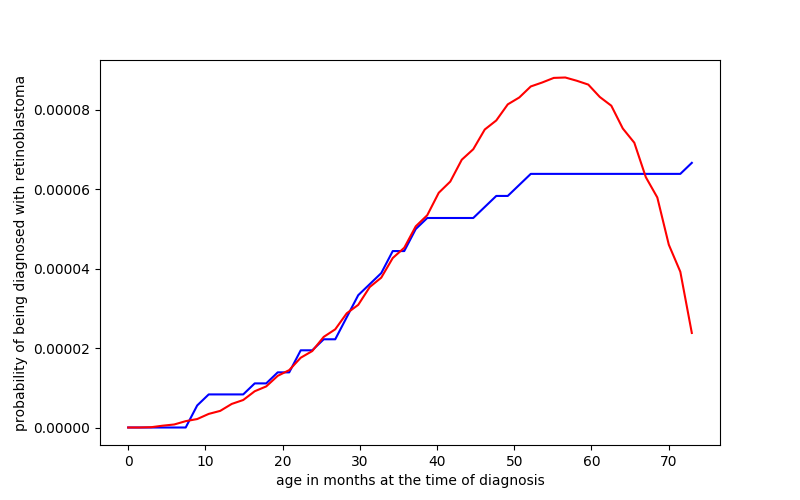
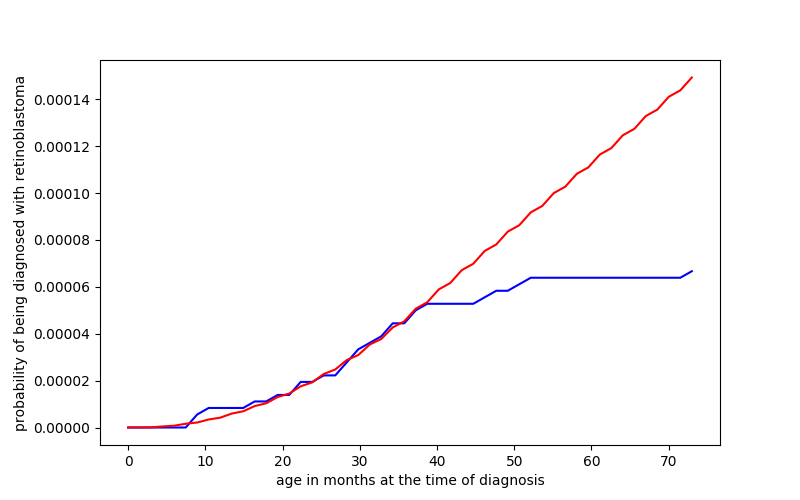
final asgn1 1

diff --git a/asgn1.py b/asgn1.py
@@ -18,13 +18,13 @@ def assignment_1_i():
 
 	p = op.minimize_scalar(loss, bounds=(1e-10, 1e-2), method='bounded').x
 	result = lambda t: model(t, p)
-	print('Best fit p = {}, relative error = {}%\n{}'.format(p, rel_err(ecdf, result, [0, 73]), div))
+	print('Best fit p = {:.2e}, relative error = {:.2}%\n{}'.format(p, rel_err(ecdf, result, [0, 73]), div))
 	fit_plot(ecdf, result, [0, 73], 'age in months at the time of diagnosis',\
 	 'probability of being diagnosed with retinoblastoma', 'single random factor (unilateral)')
 
 def assignment_1_ii():
 	global p1, p2
-	print('Problem 1(ii)\n{}'.format(div))
+	print('Problem 1(ii)(requires ~3 seconds to finish calculation)\n{}'.format(div))
 	
 	def model(t, p):
 		i, T =  1, int(t)
@@ -40,7 +40,8 @@ def assignment_1_ii():
 
 	p1, p2 = op.minimize(loss, [40e-8, 1e-8]).x
 	result = lambda t: model(t, [p1, p2])
-	print('p1 = {}, p2 = {}, relative error =  {}%\n{}'.format(p1, p2, rel_err(ecdf, result, [0, 36]), div))
+	print('p1 = {:.2e}, p2 = {:.2e},\nrelative error upto 36 months =  {:.2}%, overall relative error = {:.2}%\n{}'\
+		.format(p1, p2, rel_err(ecdf, result, [0, 36]), rel_err(ecdf, result, [0, 73]), div))
 	fit_plot(ecdf, result, [0, 73], 'age in months at the time of diagnosis',\
 	 'probability of being diagnosed with retinoblastoma', 'two random factors (unilateral)')
 
@@ -67,35 +68,37 @@ def assignment_1_iii():
 
 	a = op.minimize_scalar(loss, bounds=(0, 5), method='bounded').x
 	result = lambda t: model(t, a)
-	print('a = {}, relative error =  {}%\n{}'.format(a, rel_err(ecdf, result, [0, 73]), div))
+	print('a = {:.3}, relative error =  {:.2}%\n{}'.format(a, rel_err(ecdf, result, [0, 73]), div))
 	fit_plot(ecdf, result, [0, 73], 'age in months at the time of diagnosis',\
 	 'probability of being diagnosed with retinoblastoma', 'decaying p2 (unilateral)')
 				
 
 def assignment_1_iv():
-	print('Problem 1(iv)\n{}'.format(div))
+	print('Problem 1(iv) (requires ~8 seconds to finish calculation)\n{}'.format(div))
 
 	def model(t, a):
 		i, T =  1, int(t)
-		total = (1-p1)**T
+		_p1 = lambda j: p1 if j <= 36 else p1*np.exp(-a*(j-36))
+		total = 1
+		while i <= T:
+			total = total*(1-_p1(i))
+			i = i+1
+		i=1
 		while i <= T:
 			j, prod = 1, 1
 			while j <= i-1:
-				if j <= 36:
-					prod = prod*(1-p1)
-				else:
-					prod = prod*(1-p1*np.exp(-a*(j-36)))
+				prod = prod*(1-_p1(j))
 				j = j+1
-			total = total + p1*(1-p2)**(T-i)*prod
+			total = total + _p1(i)*(1-p2)**(T-i)*prod
 			i = i+1
 		return (1 - total**(2*cell_count))
 
 	def loss(a):
 		return integrate.quad(lambda t: (ecdf(t)-model(t, a))**2, 0, 73)[0]
 
-	a = op.minimize_scalar(loss, bounds=(0, 10), method='bounded').x
+	a = op.minimize_scalar(loss).x
 	result = lambda t: model(t, a)
-	print('a = {}, relative error =  {}%\n{}'.format(a, rel_err(ecdf, result, [0, 73]), div))
+	print('a = {:.3}, relative error =  {:.2}%\n{}'.format(a, rel_err(ecdf, result, [0, 73]), div))
 	fit_plot(ecdf, result, [0, 73], 'age in months at the time of diagnosis',\
 	 'probability of being diagnosed with retinoblastoma', 'decaying p1 (unilateral)')
 				
